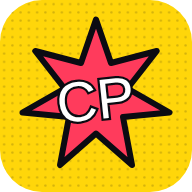
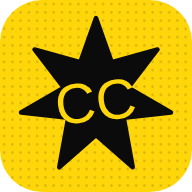
Nuevo nombre «Colección Cómics» y diseño en amarillo y negro
- Renombrada la app (título, logo, manifest, icono y copias de seguridad);
  los datos guardados se conservan
- Paleta reducida a amarillo y negro, con crema para «Leído» y rojo
  solo para borrar/errores
- Cabecera sin el círculo rojo, con trama de puntos suave
- Portadas generadas en amarillo/negro/crema y estrellas legibles
- Nuevo icono de la app

Claude-Session: https://claude.ai/code/session_01SkA3K4ZSFiN1oRdbkgof9k

Changed region(s): [[0.0938, 0.0938, 0.9062, 0.9062]]

diff --git a/src/components/SearchScreen.jsx b/src/components/SearchScreen.jsx
@@ -120,7 +120,7 @@ export default function SearchScreen({ open, onClose, comics, onQuickAdd, onOpen
               )}
             </div>
             <button onClick={() => setScanning(true)} aria-label="Escanear código de barras" title="Escanear código de barras"
-              className="shrink-0 grid place-items-center w-[52px] rounded-xl bg-pop-violet text-white hover:brightness-110 border-2 border-black comic-shadow">
+              className="shrink-0 grid place-items-center w-[52px] rounded-xl bg-pop text-ink hover:brightness-110 border-2 border-black comic-shadow">
               <IconBarcode className="w-6 h-6" />
             </button>
           </div>
@@ -136,11 +136,12 @@ export default function SearchScreen({ open, onClose, comics, onQuickAdd, onOpen
         {q.length < 2 && (
           <div className="py-4 space-y-3">
             <button onClick={() => setScanning(true)}
-              className="w-full flex items-center gap-4 p-4 rounded-2xl bg-gradient-to-br from-pop-violet to-pop-red text-left border-2 border-black comic-shadow hover:-translate-y-0.5 transition-transform">
-              <span className="grid place-items-center w-14 h-14 rounded-xl bg-black/25"><IconBarcode className="w-8 h-8" /></span>
-              <span>
+              className="relative overflow-hidden w-full flex items-center gap-4 p-4 rounded-2xl bg-pop text-ink text-left border-2 border-black comic-shadow hover:-translate-y-0.5 transition-transform">
+              <span className="absolute inset-y-0 right-0 w-1/3 halftone-fade opacity-20 pointer-events-none" />
+              <span className="relative grid place-items-center w-14 h-14 shrink-0 rounded-xl bg-ink text-pop"><IconBarcode className="w-8 h-8" /></span>
+              <span className="relative">
                 <span className="block font-display text-2xl tracking-wide leading-none">Escanear código de barras</span>
-                <span className="block text-sm text-white/85 mt-1">Apunta a la contraportada y se rellena solo</span>
+                <span className="block text-sm text-ink/75 font-medium mt-1">Apunta a la contraportada y se rellena solo</span>
               </span>
             </button>
             <div className="text-sm text-white/50 px-1 space-y-1 pt-2">
@@ -153,7 +154,7 @@ export default function SearchScreen({ open, onClose, comics, onQuickAdd, onOpen
         {q.length >= 2 && state.status === 'loading' && <Skeleton />}
 
         {state.status === 'error' && q.length >= 2 && (
-          <p className="py-8 text-center text-pop-red font-semibold">{state.error}</p>
+          <p className="py-8 text-center text-danger font-semibold">{state.error}</p>
         )}
 
         {state.status === 'done' && q.length >= 2 && state.results.length === 0 && (
@@ -191,13 +192,13 @@ export default function SearchScreen({ open, onClose, comics, onQuickAdd, onOpen
                         </div>
                         <div className="flex flex-wrap gap-1 mt-1.5">
                           {r.format && <span className="text-[10px] font-bold uppercase tracking-wide rounded px-1.5 py-0.5 bg-white/10 text-white/70">{r.format}</span>}
-                          {r.language === 'es' && <span className="text-[10px] font-bold uppercase tracking-wide rounded px-1.5 py-0.5 bg-pop-cyan/15 text-pop-cyan">Español</span>}
+                          {r.language === 'es' && <span className="text-[10px] font-bold uppercase tracking-wide rounded px-1.5 py-0.5 bg-cream/15 text-cream">Español</span>}
                           {r.pages && <span className="text-[10px] font-semibold rounded px-1.5 py-0.5 bg-white/5 text-white/50">{r.pages} págs.</span>}
                         </div>
                       </button>
                       <div className="mt-auto pt-2 flex flex-wrap gap-2">
                         {mine ? (
-                          <span className="inline-flex items-center gap-1.5 text-xs font-bold rounded-lg px-2.5 py-1.5 bg-pop-cyan/15 text-pop-cyan">
+                          <span className="inline-flex items-center gap-1.5 text-xs font-bold rounded-lg px-2.5 py-1.5 bg-cream/15 text-cream">
                             <IconCheck className="w-3.5 h-3.5" strokeWidth={3} /> Ya en tu colección · {STATUS_LABEL[mine.status]}
                           </span>
                         ) : (
@@ -207,7 +208,7 @@ export default function SearchScreen({ open, onClose, comics, onQuickAdd, onOpen
                               <IconLibrary className="w-3.5 h-3.5" /> Lo tengo
                             </button>
                             <button onClick={() => onQuickAdd(r, 'wanted')}
-                              className="inline-flex items-center gap-1.5 text-xs font-bold rounded-lg px-3 py-1.5 bg-pop-red/15 text-pop-red hover:bg-pop-red/25 active:scale-95 transition">
+                              className="inline-flex items-center gap-1.5 text-xs font-bold rounded-lg px-3 py-1.5 border border-pop text-pop hover:bg-pop/10 active:scale-95 transition">
                               <IconHeart className="w-3.5 h-3.5" /> Lo quiero
                             </button>
                           </>

diff --git a/src/App.jsx b/src/App.jsx
@@ -11,9 +11,9 @@ import { IconBook, IconHeart, IconLibrary, IconMore, IconPlus, IconSearch, IconX
 const TABS = [
   { id: 'owned', label: 'Lo tengo', Icon: IconLibrary, accent: 'bg-pop text-ink', match: (c) => c.status === 'owned',
     empty: ['Tu estantería está vacía', 'Añade el primer cómic de tu colección.'] },
-  { id: 'wanted', label: 'Lo quiero', Icon: IconHeart, accent: 'bg-pop-red text-white', match: (c) => c.status === 'wanted',
+  { id: 'wanted', label: 'Lo quiero', Icon: IconHeart, accent: 'bg-pop text-ink', match: (c) => c.status === 'wanted',
     empty: ['Tu lista de deseos está vacía', 'Apunta aquí los cómics que quieres conseguir.'] },
-  { id: 'read', label: 'Leídos', Icon: IconBook, accent: 'bg-pop-cyan text-ink', match: (c) => c.read,
+  { id: 'read', label: 'Leídos', Icon: IconBook, accent: 'bg-pop text-ink', match: (c) => c.read,
     empty: ['Todavía no has marcado ninguno como leído', 'Abre un cómic y márcalo como leído.'] },
 ];
 
@@ -121,11 +121,11 @@ export default function App() {
       {/* Cabecera */}
       <header className="relative overflow-hidden border-b-4 border-black bg-pop">
         <div className="absolute inset-0 halftone-pop" />
-        <div className="absolute -right-10 -top-16 w-64 h-64 rounded-full bg-pop-red/90 border-4 border-black hidden sm:block" />
+        <div className="absolute inset-y-0 right-0 w-1/2 halftone-fade opacity-25 pointer-events-none" />
         <div className="relative max-w-6xl mx-auto px-4 pt-[max(1.25rem,env(safe-area-inset-top))] pb-5">
           <div className="flex items-center justify-between gap-3">
-            <h1 className="font-display text-5xl sm:text-6xl tracking-wide text-white title-shadow [-webkit-text-stroke:2px_#000] leading-none -rotate-2">
-              ComicPadin
+            <h1 className="font-display text-[2.6rem] min-[420px]:text-5xl sm:text-6xl tracking-wide text-white title-shadow [-webkit-text-stroke:2px_#0b0b0b] leading-none -rotate-2">
+              Colección <span className="text-pop [-webkit-text-stroke:2px_#0b0b0b]">Cómics</span>
             </h1>
             <div className="flex items-center gap-2">
               <button onClick={openNew}
@@ -251,7 +251,7 @@ export default function App() {
           <span className="truncate">✓ {toast.text}</span>
           {toast.undo && (
             <button onClick={() => { toast.undo(); setToast(null); }}
-              className="shrink-0 px-3 py-1.5 rounded-lg font-bold text-pop-violet hover:bg-pop-violet/10">Deshacer</button>
+              className="shrink-0 px-3 py-1.5 rounded-lg font-bold bg-ink text-pop hover:brightness-125">Deshacer</button>
           )}
         </div>
       )}

diff --git a/src/components/BackupMenu.jsx b/src/components/BackupMenu.jsx
@@ -7,11 +7,11 @@ export default function BackupMenu({ open, onClose, comics, onImport }) {
   const [msg, setMsg] = useState('');
 
   function exportJson() {
-    const blob = new Blob([JSON.stringify({ app: 'comicpadin', version: 1, exportedAt: new Date().toISOString(), comics }, null, 2)],
+    const blob = new Blob([JSON.stringify({ app: 'coleccion-comics', version: 1, exportedAt: new Date().toISOString(), comics }, null, 2)],
       { type: 'application/json' });
     const a = document.createElement('a');
     a.href = URL.createObjectURL(blob);
-    a.download = `comicpadin-${new Date().toISOString().slice(0, 10)}.json`;
+    a.download = `coleccion-comics-${new Date().toISOString().slice(0, 10)}.json`;
     a.click();
     setTimeout(() => URL.revokeObjectURL(a.href), 1000);
     setMsg(`Copia descargada con ${comics.length} cómics.`);
@@ -30,7 +30,7 @@ export default function BackupMenu({ open, onClose, comics, onImport }) {
       onImport(list, replace ? 'replace' : 'merge');
       setMsg(`Importados ${list.length} cómics.`);
     } catch {
-      setMsg('Ese archivo no parece una copia de ComicPadin.');
+      setMsg('Ese archivo no parece una copia de Colección Cómics.');
     }
   }
 
@@ -48,14 +48,14 @@ export default function BackupMenu({ open, onClose, comics, onImport }) {
             <span className="text-xs text-white/50">Descarga un archivo .json</span></span>
         </button>
         <button onClick={() => fileRef.current?.click()}
-          className="flex items-center gap-3 p-4 rounded-xl bg-panel-2 border border-line hover:border-pop-cyan text-left transition-colors">
-          <IconUpload className="w-6 h-6 text-pop-cyan" />
+          className="flex items-center gap-3 p-4 rounded-xl bg-panel-2 border border-line hover:border-pop text-left transition-colors">
+          <IconUpload className="w-6 h-6 text-cream" />
           <span><span className="block font-bold">Importar colección</span>
             <span className="text-xs text-white/50">Desde un archivo .json exportado antes</span></span>
         </button>
         <input ref={fileRef} type="file" accept="application/json,.json" className="hidden" onChange={importJson} />
       </div>
-      {msg && <p className="mt-4 text-sm font-semibold text-pop-cyan">{msg}</p>}
+      {msg && <p className="mt-4 text-sm font-semibold text-pop">{msg}</p>}
     </Modal>
   );
 }

diff --git a/src/components/Cover.jsx b/src/components/Cover.jsx
@@ -1,8 +1,11 @@
 import { useEffect, useState } from 'react';
 
+// Portadas generadas en amarillo y negro: [fondo1, fondo2, texto, trama]
 const PALETTES = [
-  ['#ff3b5c', '#ffd60a'], ['#2ee6d6', '#8b5cf6'], ['#ffd60a', '#ff7a00'],
-  ['#8b5cf6', '#ff3b5c'], ['#00b4ff', '#2ee6d6'], ['#ff7a00', '#ff3b5c'],
+  ['#ffd60a', '#f5b700', '#0b0b0b', 'halftone-pop'],
+  ['#1c1c1c', '#050505', '#ffd60a', 'halftone'],
+  ['#f6f1e3', '#e8e0c9', '#0b0b0b', 'halftone-pop'],
+  ['#0b0b0b', '#262626', '#f6f1e3', 'halftone'],
 ];
 const hash = (s) => [...s].reduce((h, c) => (h * 31 + c.charCodeAt(0)) | 0, 7);
 
@@ -23,17 +26,17 @@ export default function Cover({ comic, className = '', big = false }) {
     );
   }
 
-  const [a, b] = PALETTES[Math.abs(hash(comic.title || comic.id)) % PALETTES.length];
+  const [a, b, fg, dots] = PALETTES[Math.abs(hash(comic.title || comic.id)) % PALETTES.length];
   return (
     <div className={`relative w-full h-full overflow-hidden flex flex-col justify-end p-3 ${big ? '' : 'pb-8'} ${className}`}
-      style={{ background: `linear-gradient(145deg, ${a}, ${b})` }}>
-      <div className="absolute inset-0 halftone-pop" />
-      <div className="absolute -right-6 -top-6 w-24 h-24 rounded-full bg-white/20" />
+      style={{ background: `linear-gradient(160deg, ${a}, ${b})`, color: fg }}>
+      <div className={`absolute inset-0 ${dots}`} />
+      <div className="absolute top-0 inset-x-0 h-[18%] speed-lines opacity-[0.12]" style={{ filter: fg === '#0b0b0b' ? 'none' : 'invert(1)' }} />
       <div className="relative">
         {comic.number && (
-          <div className={`font-display text-ink/80 leading-none ${big ? 'text-6xl' : 'text-3xl'}`}>#{comic.number}</div>
+          <div className={`font-display opacity-80 leading-none ${big ? 'text-6xl' : 'text-3xl'}`}>#{comic.number}</div>
         )}
-        <div className={`font-display text-ink leading-[0.95] tracking-wide break-words ${big ? 'text-4xl' : 'text-xl'}`}>
+        <div className={`font-display leading-[0.95] tracking-wide break-words ${big ? 'text-4xl' : 'text-xl'}`}>
           {comic.series || comic.title || 'Sin título'}
         </div>
       </div>

diff --git a/src/components/ComicCard.jsx b/src/components/ComicCard.jsx
@@ -12,17 +12,16 @@ export default function ComicCard({ comic, onOpen, index = 0 }) {
         transition-all duration-200 group-hover:-translate-y-1 group-hover:rotate-[-1deg] group-hover:shadow-[6px_6px_0_0_#ffd60a]
         group-focus-visible:ring-4 group-focus-visible:ring-pop">
         <Cover comic={comic} />
-        <div className="absolute inset-x-0 bottom-0 h-1/3 bg-gradient-to-t from-black/80 to-transparent pointer-events-none" />
         {comic.read && (
-          <span className="absolute top-2 right-2 flex items-center gap-1 rounded-full bg-pop-cyan text-ink text-[11px] font-bold px-2 py-0.5 shadow">
+          <span className="absolute top-2 right-2 flex items-center gap-1 rounded-full bg-cream text-ink text-[11px] font-bold px-2 py-0.5 shadow border border-black">
             <IconCheck className="w-3 h-3" strokeWidth={3} /> LEÍDO
           </span>
         )}
         {comic.status === 'wanted' && (
-          <span className="absolute top-2 left-2 rounded-full bg-pop-red text-white text-[11px] font-bold px-2 py-0.5 shadow">LO QUIERO</span>
+          <span className="absolute top-2 left-2 rounded-full bg-ink text-pop text-[11px] font-bold px-2 py-0.5 shadow border border-pop">LO QUIERO</span>
         )}
         {comic.rating > 0 && (
-          <span className="absolute bottom-2 left-2 flex items-center gap-0.5 text-pop">
+          <span className="absolute bottom-2 left-2 flex items-center gap-0.5 text-pop bg-ink/85 rounded-full px-1.5 py-1 border border-black">
             {Array.from({ length: comic.rating }, (_, i) => <IconStar key={i} filled className="w-3.5 h-3.5 drop-shadow" />)}
           </span>
         )}

diff --git a/src/index.css b/src/index.css
@@ -3,14 +3,15 @@
 @theme {
   --font-display: "Bangers", "Impact", system-ui, sans-serif;
   --font-sans: "Inter", ui-sans-serif, system-ui, -apple-system, "Segoe UI", sans-serif;
-  --color-ink: #0b0b12;
-  --color-panel: #15151f;
-  --color-panel-2: #1d1d2b;
-  --color-line: #2a2a3c;
+  /* Paleta: amarillo y negro. "cream" marca lo leído; "danger" solo para borrar/errores */
+  --color-ink: #0b0b0b;
+  --color-panel: #151515;
+  --color-panel-2: #1e1e1e;
+  --color-line: #2b2b2b;
   --color-pop: #ffd60a;
-  --color-pop-red: #ff3b5c;
-  --color-pop-cyan: #2ee6d6;
-  --color-pop-violet: #8b5cf6;
+  --color-pop-deep: #f5b700;
+  --color-cream: #f6f1e3;
+  --color-danger: #ef5350;
 }
 
 html, body, #root { min-height: 100%; }
@@ -33,7 +34,19 @@ body {
   background-size: 8px 8px;
 }
 
-.title-shadow { text-shadow: 3px 3px 0 #ff3b5c, 6px 6px 0 rgba(0,0,0,.35); }
+.title-shadow { text-shadow: 4px 4px 0 #0b0b0b; }
+
+/* Trama de puntos que se desvanece (decoración de la cabecera) */
+.halftone-fade {
+  background-image: radial-gradient(rgba(11, 11, 11, 0.9) 2.2px, transparent 2.6px);
+  background-size: 12px 12px;
+  -webkit-mask-image: linear-gradient(105deg, transparent 45%, #000 100%);
+  mask-image: linear-gradient(105deg, transparent 45%, #000 100%);
+}
+/* Rayas diagonales de cómic */
+.speed-lines {
+  background-image: repeating-linear-gradient(-55deg, rgba(11,11,11,.9) 0 3px, transparent 3px 16px);
+}
 .comic-shadow { box-shadow: 4px 4px 0 0 #000; }
 
 .no-scrollbar::-webkit-scrollbar { display: none; }

diff --git a/src/components/StatusPicker.jsx b/src/components/StatusPicker.jsx
@@ -2,8 +2,8 @@ import { IconBag, IconCheck, IconHeart, IconLibrary } from './Icons.jsx';
 
 const OPTIONS = [
   { id: 'owned', label: 'Lo tengo', Icon: IconLibrary, on: 'bg-pop text-ink' },
-  { id: 'wanted', label: 'Lo quiero', Icon: IconHeart, on: 'bg-pop-red text-white' },
-  { id: 'none', label: 'Ninguno', Icon: IconBag, on: 'bg-white/80 text-ink' },
+  { id: 'wanted', label: 'Lo quiero', Icon: IconHeart, on: 'bg-pop text-ink' },
+  { id: 'none', label: 'Ninguno', Icon: IconBag, on: 'bg-cream text-ink' },
 ];
 
 export function StatusPicker({ value, onChange }) {
@@ -24,10 +24,10 @@ export function ReadToggle({ value, onChange }) {
   return (
     <button type="button" onClick={() => onChange(!value)} aria-pressed={value}
       className={`w-full flex items-center justify-between gap-3 px-4 py-3 rounded-xl border-2 transition-all
-        ${value ? 'border-pop-cyan bg-pop-cyan/10' : 'border-line hover:border-white/30'}`}>
+        ${value ? 'border-cream bg-cream/10' : 'border-line hover:border-white/30'}`}>
       <span className="flex items-center gap-2 font-semibold">
         <span className={`grid place-items-center w-6 h-6 rounded-md border-2 transition-all
-          ${value ? 'bg-pop-cyan border-pop-cyan text-ink' : 'border-white/30'}`}>
+          ${value ? 'bg-cream border-cream text-ink' : 'border-white/30'}`}>
           {value && <IconCheck className="w-4 h-4" strokeWidth={3} />}
         </span>
         {value ? '¡Leído!' : 'Aún no lo he leído'}

diff --git a/src/components/ComicForm.jsx b/src/components/ComicForm.jsx
@@ -46,7 +46,7 @@ export default function ComicForm({ open, initial, isNew, onSave, onDelete, onCl
         <div className="flex items-center gap-2">
           {!isNew && (
             <button type="button" onClick={() => onDelete(c)}
-              className="p-2.5 rounded-xl text-pop-red hover:bg-pop-red/10" aria-label="Eliminar">
+              className="p-2.5 rounded-xl text-danger hover:bg-danger/10" aria-label="Eliminar">
               <IconTrash />
             </button>
           )}
@@ -120,7 +120,7 @@ export default function ComicForm({ open, initial, isNew, onSave, onDelete, onCl
             <textarea value={c.notes} onChange={set('notes')} rows={3} placeholder="Estado, dónde lo compré, a quién se lo presté…"
               className="w-full rounded-lg bg-ink border border-line px-3 py-2 text-sm placeholder:text-white/25 focus:outline-none focus:border-pop resize-y" />
           </label>
-          {error && <div className="text-sm text-pop-red font-semibold">{error}</div>}
+          {error && <div className="text-sm text-danger font-semibold">{error}</div>}
         </div>
       </form>
     </Modal>

diff --git a/index.html b/index.html
@@ -3,7 +3,7 @@
   <head>
     <meta charset="UTF-8" />
     <meta name="viewport" content="width=device-width, initial-scale=1, viewport-fit=cover" />
-    <meta name="theme-color" content="#0b0b12" />
+    <meta name="theme-color" content="#0b0b0b" />
     <meta name="description" content="Tu colección de cómics: lo que tienes, lo que quieres y lo que has leído." />
     <link rel="icon" href="./icon.svg" type="image/svg+xml" />
     <link rel="apple-touch-icon" href="./icon-192.png" />
@@ -13,7 +13,7 @@
     <link rel="preconnect" href="https://fonts.googleapis.com" />
     <link rel="preconnect" href="https://fonts.gstatic.com" crossorigin />
     <link href="https://fonts.googleapis.com/css2?family=Bangers&family=Inter:wght@400;500;600;700;800&display=swap" rel="stylesheet" />
-    <title>ComicPadin</title>
+    <title>Colección Cómics</title>
   </head>
   <body>
     <div id="root"></div>

diff --git a/src/components/BarcodeScanner.jsx b/src/components/BarcodeScanner.jsx
@@ -40,7 +40,7 @@ export default function BarcodeScanner({ onCode, onClose }) {
           <div className="relative w-[78%] max-w-md aspect-[2/1] rounded-2xl shadow-[0_0_0_9999px_rgba(0,0,0,0.55)]">
             <div className="absolute inset-0 rounded-2xl border-4 border-pop" />
             {status === 'scanning' && (
-              <div className="absolute left-3 right-3 top-1/2 h-0.5 bg-pop-red shadow-[0_0_12px_2px_#ff3b5c] animate-pulse" />
+              <div className="absolute left-3 right-3 top-1/2 h-0.5 bg-pop shadow-[0_0_12px_2px_#ffd60a] animate-pulse" />
             )}
           </div>
         </div>

diff --git a/README.md b/README.md
@@ -1,4 +1,4 @@
-# ComicPadin 💥
+# Colección Cómics 💥
 
 App para llevar tu colección de cómics, con tres secciones:
 
